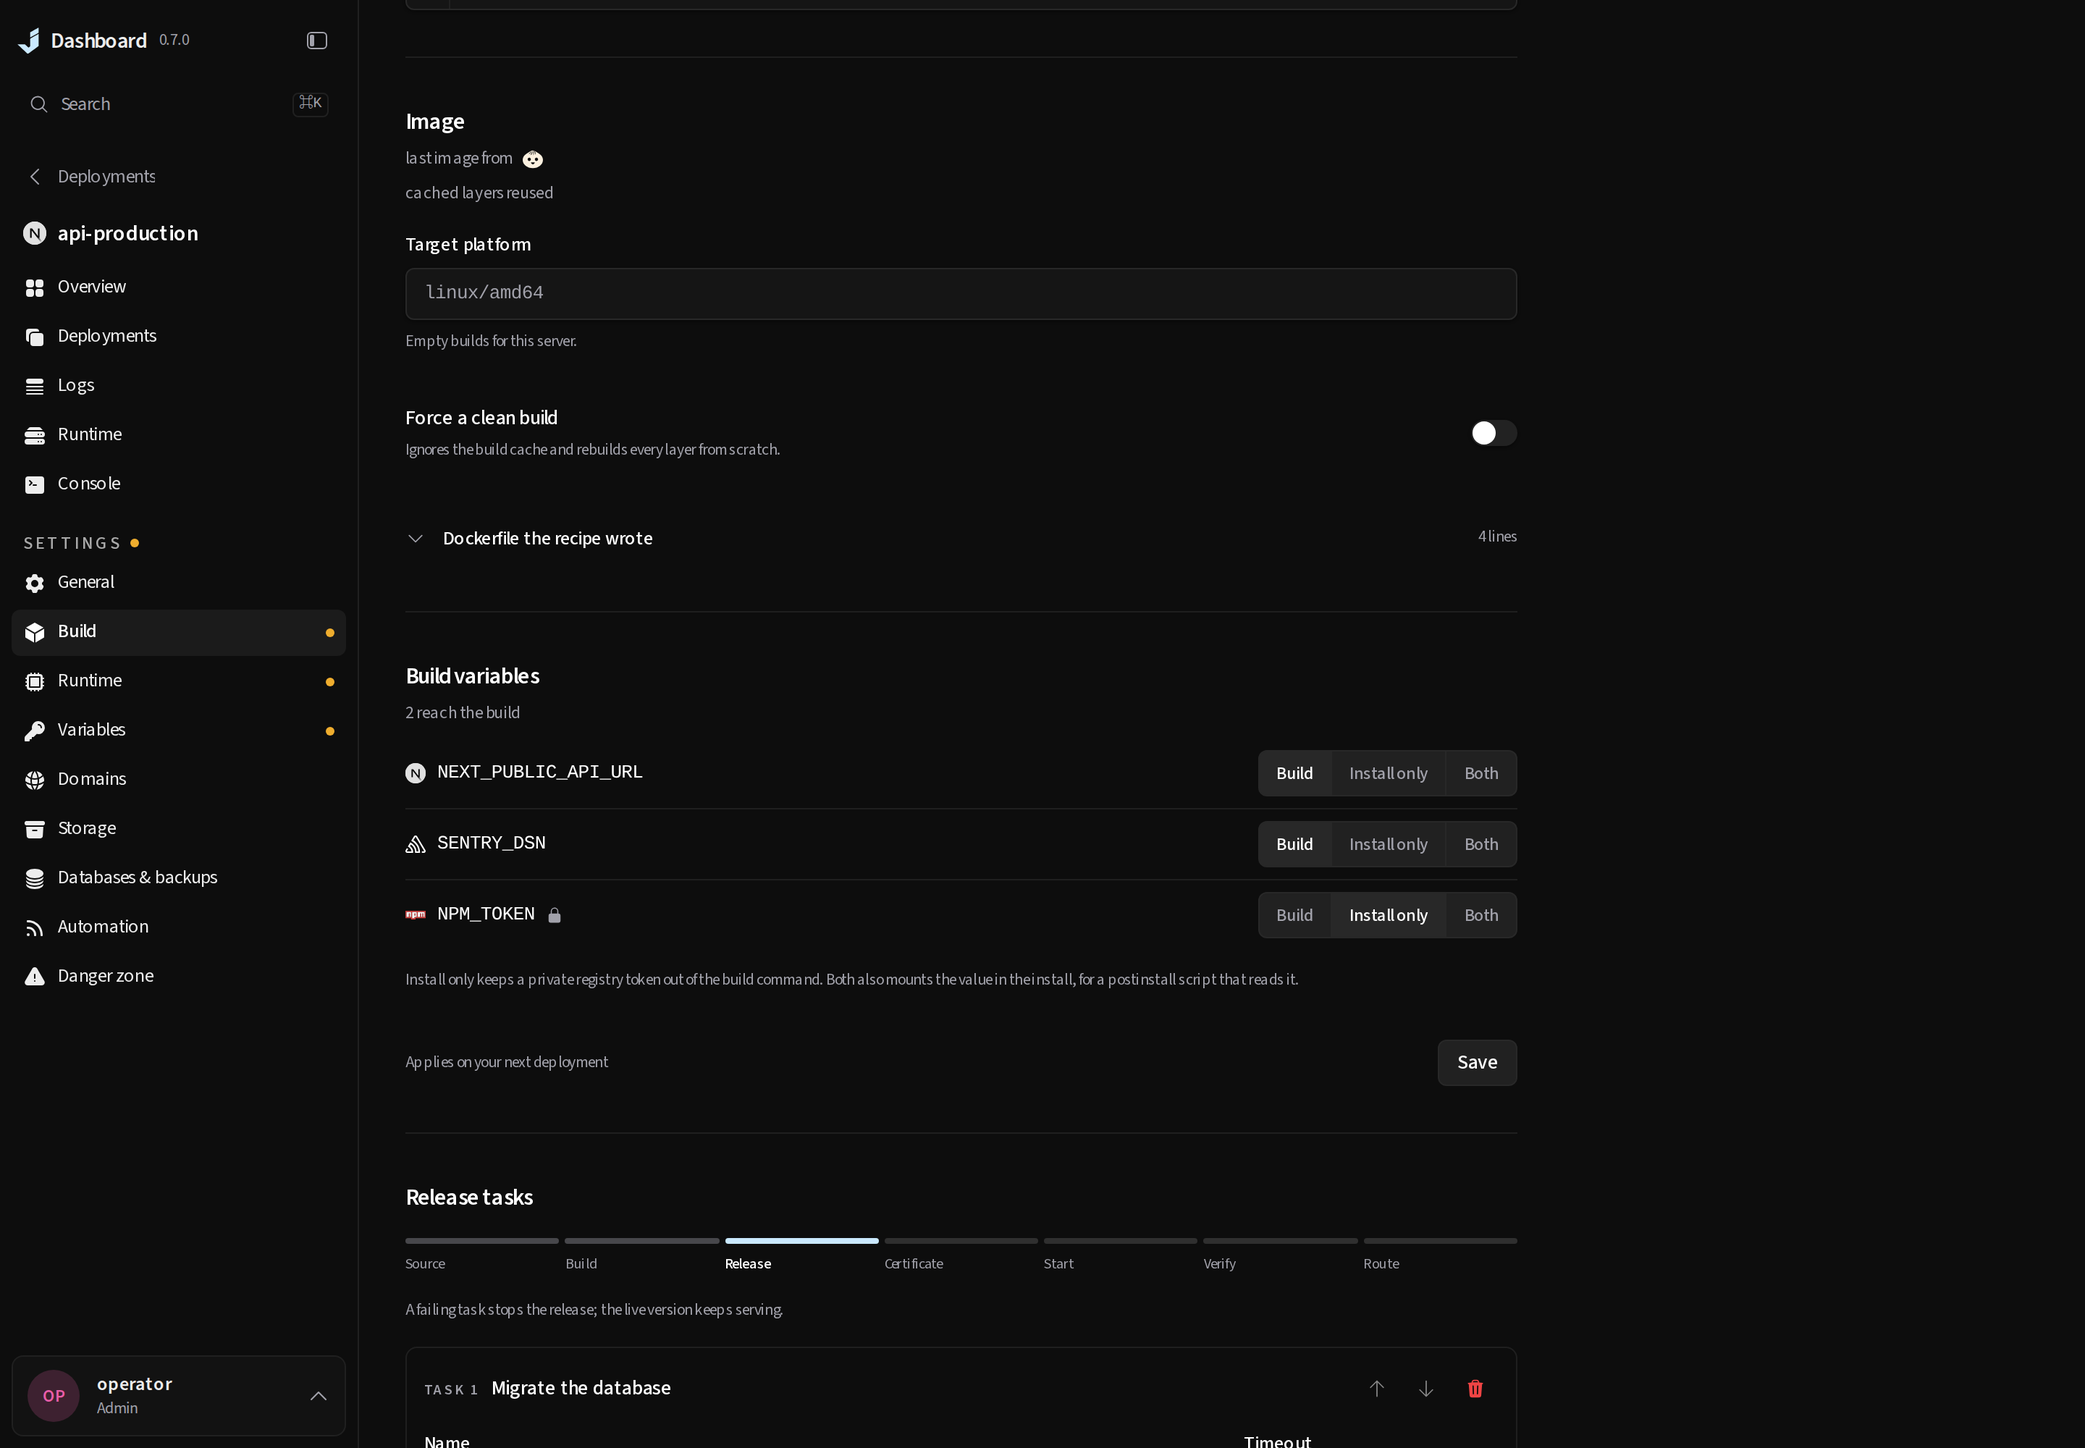
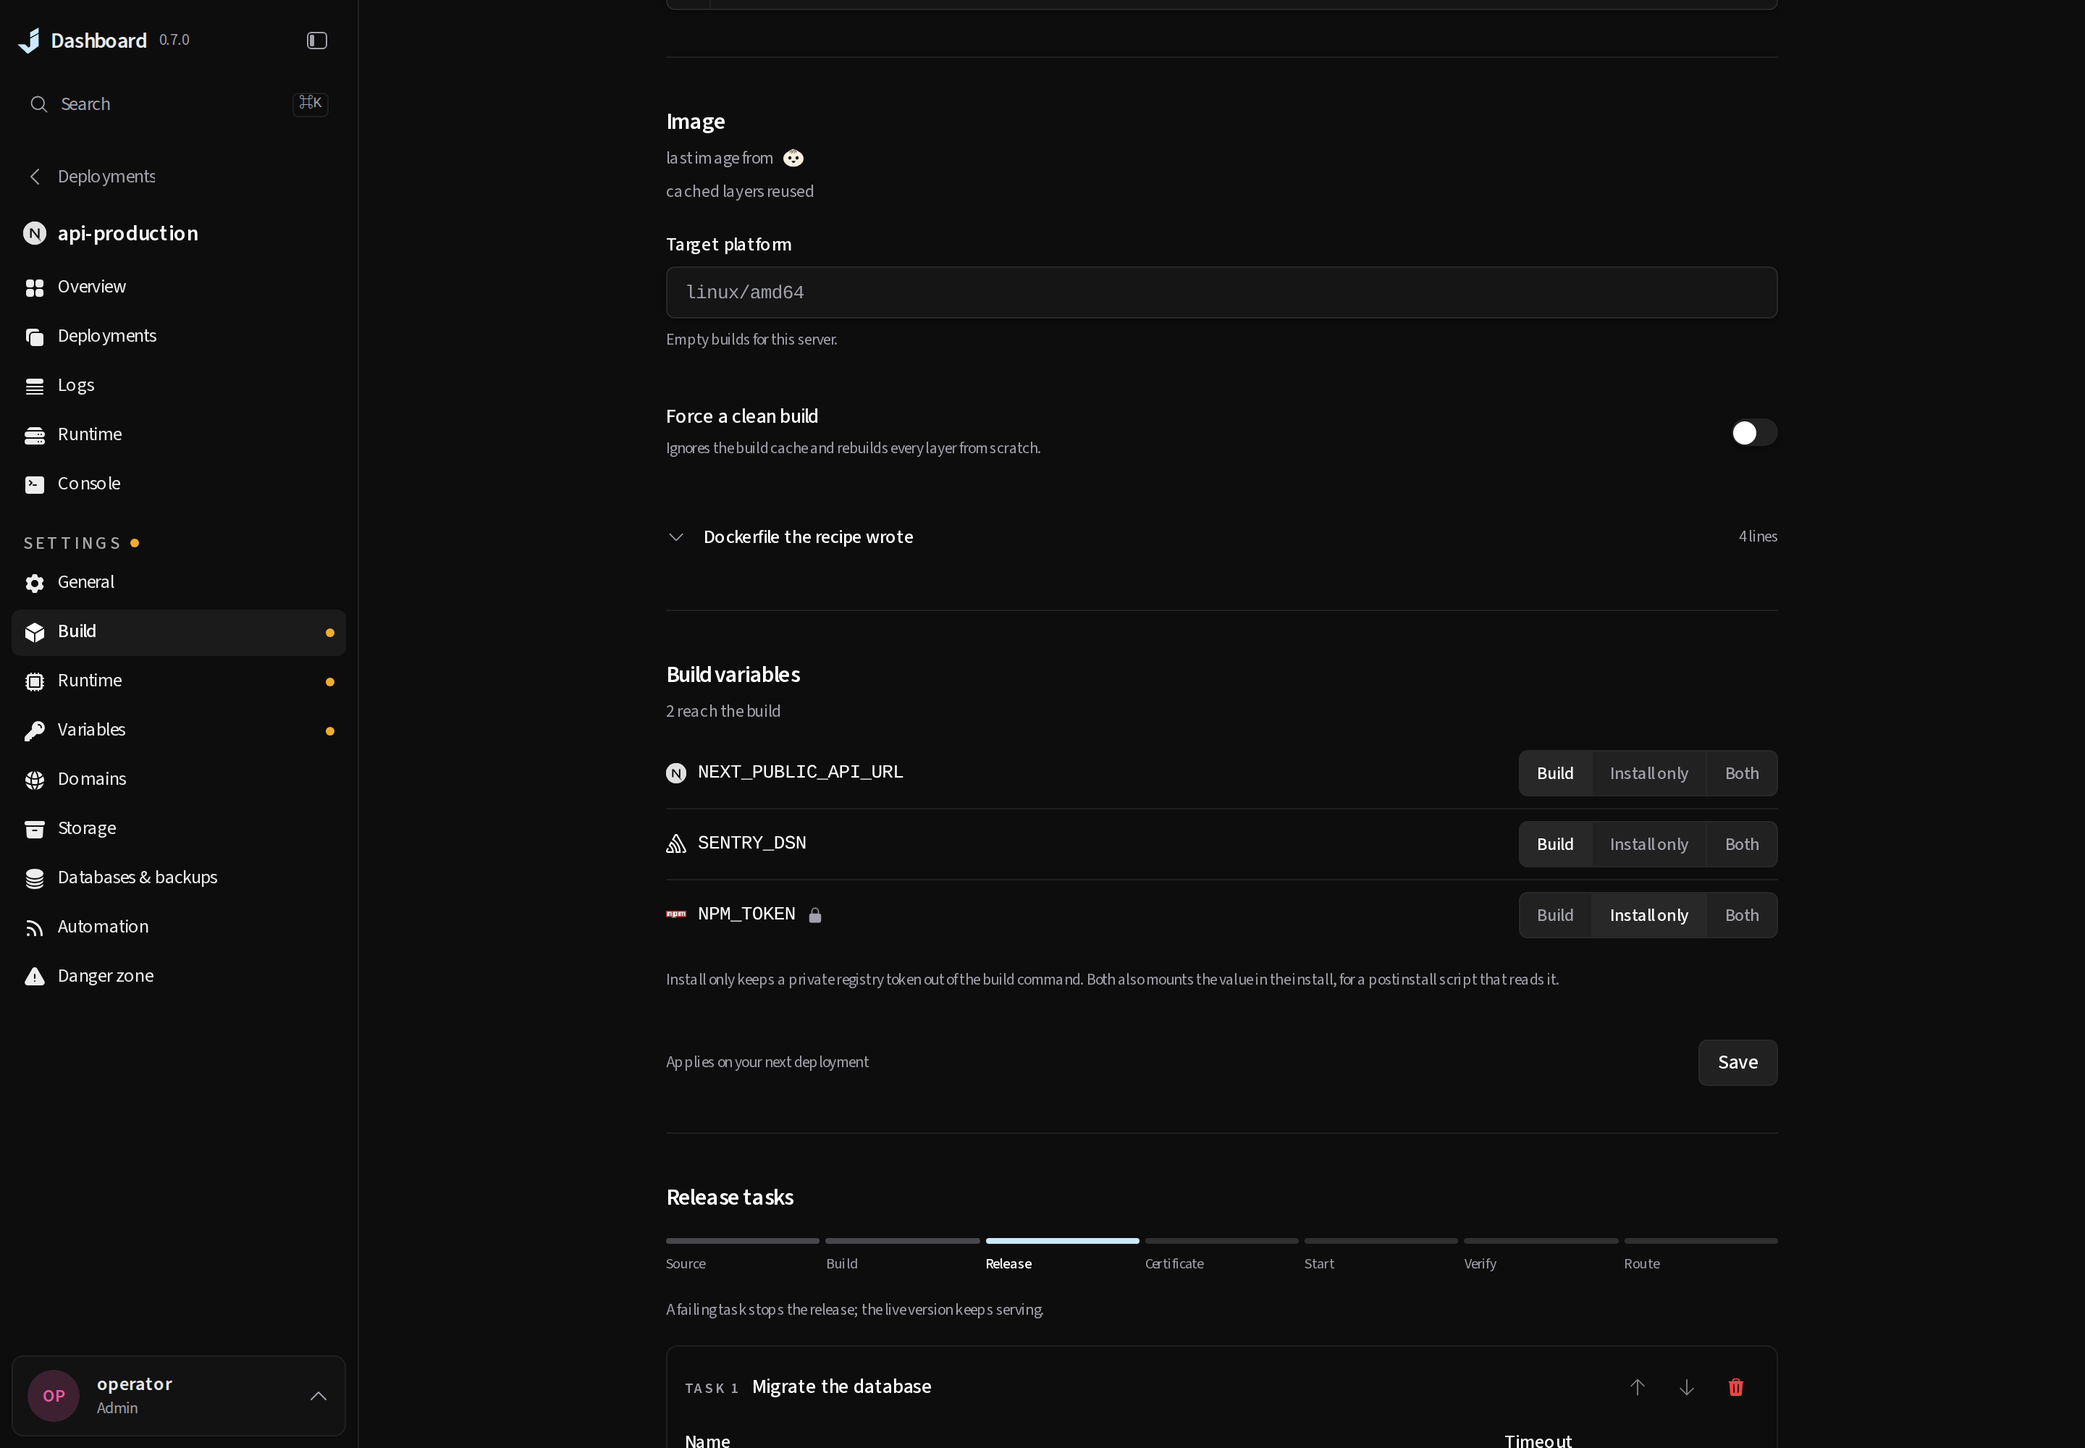
Centre the form column on pages that are only a form
A 48rem column against the left edge of a wide page left the rest of it an empty band. The nine project settings pages, a game server's settings, the account's Security and a database's Settings now centre it, with the project settings' strip and readings centred alongside. A form that is one block among full-width ones keeps their left edge, since centred there its title stood apart from every title above it.

diff --git a/frontend/src/components/deploy/settings/setting-card.tsx b/frontend/src/components/deploy/settings/setting-card.tsx
@@ -38,12 +38,12 @@ import {
 type SettingApplies = "next-deployment" | "immediately"
 
 /**
- * The sections' column, for what sits under a form rather than in one of its
- * sections — and for the game server's foot, which has no `FormSections`
- * around it — so Save sits under the fields it saves rather than a thousand
- * pixels to their right on a wide screen.
+ * The sections' centred column, for the page around them and for what sits
+ * under a form rather than in one of its sections — the game server's foot
+ * included, which has no `FormSections` around it — so Save sits under the
+ * fields it saves rather than a thousand pixels to their right.
  */
-const FIELDS_COLUMN = "max-w-3xl"
+const FIELDS_COLUMN = "mx-auto w-full max-w-3xl"
 
 const APPLIES: Record<SettingApplies, string> = {
   "next-deployment": "Applies on your next deployment",
@@ -52,10 +52,12 @@ const APPLIES: Record<SettingApplies, string> = {
 
 /**
  * A settings page: its configuration read, what is saved but not live, the
- * page's figures when it has any, and its forms in one run of rail sections.
+ * page's figures when it has any, and its forms in one run of sections — all
+ * of it in the one centred column, so the strip and the figures line up with
+ * the fields under them.
  *
  * No heading of its own. The project's other pages add none under the
- * project header, and the first rail head already names what the page is.
+ * project header, and the first section's head already names what the page is.
  * The content rises once when the first read lands and not on every revision
  * after it, because a save is not an arrival.
  */
@@ -75,7 +77,7 @@ export function SettingsPage({
   return (
     <ConfigurationState state={state} readings={Boolean(readings)}>
       {(configuration) => (
-        <div className="min-w-0 animate-rise space-y-8">
+        <div className={cn("min-w-0 animate-rise space-y-8", FIELDS_COLUMN)}>
           <PendingChanges pending={configuration.pending} pageKinds={pageKinds} />
           <LastFailureRemedy />
           {readings?.(configuration)}
@@ -199,7 +201,7 @@ export function SettingSection({
 
 /**
  * Where a section stands against what is saved and what is live, as the one
- * `Status` its rail head carries — or nothing, which is the common case: a
+ * `Status` its head carries — or nothing, which is the common case: a
  * "Live" on every head would be noise.
  *
  * `notLive` is for a section that one kind of pending change maps onto

diff --git a/frontend/src/components/deploy/settings/use-configuration.tsx b/frontend/src/components/deploy/settings/use-configuration.tsx
@@ -61,7 +61,7 @@ export function useConfiguration(projectId: number, environmentId: number) {
 
 /**
  * The three states a settings section passes through before it has a form
- * to show. Rendered by the section, so the rail stays put while it loads.
+ * to show. Rendered by the section, so its head stays put while it loads.
  *
  * `readings` says the page opens on a row of figures, so the skeleton draws
  * one: a placeholder that is not the shape of what replaces it is a jump.
@@ -84,7 +84,7 @@ export function ConfigurationState({
 
 /**
  * A settings page before its configuration lands: the figures, then two
- * sections with their heads in the rail and three fields beside each.
+ * sections, each head over three fields.
  *
  * It was a framed table — a header strip over five rows — which is the one
  * shape no settings page has, so the moment the data arrived the whole
@@ -94,7 +94,7 @@ export function ConfigurationState({
  */
 function SettingsSkeleton({ readings }: { readings?: boolean }) {
   return (
-    <div className="min-w-0 space-y-8">
+    <div className="mx-auto w-full max-w-3xl min-w-0 space-y-8">
       {readings && (
         <StatGrid columns={4} dense>
           {[0, 1, 2, 3].map((cell) => (
@@ -111,7 +111,7 @@ function SettingsSkeleton({ readings }: { readings?: boolean }) {
           ))}
         </StatGrid>
       )}
-      <div className="max-w-3xl divide-y divide-hairline">
+      <div className="divide-y divide-hairline">
         {[0, 1].map((row) => (
           <div key={row} className="min-w-0 space-y-4 py-8 first:pt-0 last:pb-0">
             <div className="space-y-2">
@@ -226,7 +226,7 @@ function isRecord(value: unknown): value is Record<string, unknown> {
  * already claimed to have.
  *
  * `key` names the section (`deploy.7.settings.build`). `changed` answers for
- * a group of fields, so a rail head can say which part of a long form has
+ * a group of fields, so a section's head can say which part of a long form has
  * the edits; `changes` is the count the foot prints; `discard` drops the
  * draft and the form reads the saved value again.
  */

diff --git a/frontend/src/components/deploy/settings/runtime.tsx b/frontend/src/components/deploy/settings/runtime.tsx
@@ -72,7 +72,7 @@ import {
  * cannot run two releases side by side, and blue/green on such a plan used
  * to be offered here and then refused at start.
  *
- * Two forms, two saves: Runtime (five rail sections, one PUT) and Health
+ * Two forms, two saves: Runtime (five sections, one PUT) and Health
  * checks. Each keeps its own draft keyed on its own saved value, so saving
  * one no longer restarts the other.
  */
@@ -162,7 +162,7 @@ const RUNTIME_FIELD_IDS: Record<string, string> = {
   "runtime.devices": "runtime-devices",
 }
 
-/** Which rail head a refused field belongs to, so that head says "Not saved". */
+/** Which section head a refused field belongs to, so that head says "Not saved". */
 const FIELD_SECTION: Record<string, string> = {
   "runtime-image": "runtime",
   "runtime-command": "runtime",
@@ -415,7 +415,7 @@ function RuntimeReadings({
   )
 }
 
-/** One or two states for a rail head, stacked, or nothing when there are none. */
+/** One or two states for a section head, stacked, or nothing when there are none. */
 function statuses(...items: React.ReactNode[]) {
   const shown = items.filter(Boolean)
   if (shown.length === 0) return undefined
@@ -423,7 +423,7 @@ function statuses(...items: React.ReactNode[]) {
 }
 
 /**
- * The Runtime form: five rail heads — the image and command, where it
+ * The Runtime form: five section heads — the image and command, where it
  * listens, what it may use, how releases replace each other, what it can
  * reach — and one save, because one PUT writes all of it.
  */

diff --git a/frontend/src/components/database/ops/settings.tsx b/frontend/src/components/database/ops/settings.tsx
@@ -23,11 +23,10 @@ import { useDatabase } from "@/components/database/shell/database-context"
  * server is reachable from, the server's own parameters and extensions, what
  * else it holds, and the acts that end it.
  *
- * The page is a form, so its sections stand in a rail (§7): the heads down
- * the left, each carrying what the section currently is — the engine and its
- * address, the reach, how many parameters differ from their default — and the
- * fields down the right. It keeps no tiles: every figure it has is one of
- * those heads' lines.
+ * The page is a form, so it is one column of sections (§7), each head over
+ * its fields carrying what the section currently is — the engine and its
+ * address, the reach, how many parameters differ from their default. It keeps
+ * no tiles: every figure it has is one of those heads' lines.
  *
  * A section the engine lacks is not drawn. A file has no server, so no
  * reachability and no neighbours; a key–value server has modules where a SQL
@@ -75,7 +74,7 @@ export function Settings() {
   return (
     <SectionFrame section="settings">
       {sections.length > 2 && <SectionJump sections={sections} />}
-      <FormSections>
+      <FormSections className="mx-auto">
         <ConnectionSection />
         {server && <ReachabilitySection confirm={confirm} />}
         {parameters && <ParametersSection />}

diff --git a/frontend/src/components/form.tsx b/frontend/src/components/form.tsx
@@ -226,7 +226,7 @@ export function FormSection({
         id={id}
         data-slot={slot}
         className={cn(
-          "max-w-3xl min-w-0 scroll-mt-6 space-y-4 py-8 first:pt-0 last:pb-0",
+          "w-full max-w-3xl min-w-0 scroll-mt-6 space-y-4 py-8 first:pt-0 last:pb-0",
           className,
         )}
       >
@@ -266,9 +266,21 @@ export function FormSection({
  * A run of `FormSection aside`s, a hairline between each, held to the fields'
  * width so the hairlines stop where the fields do — a settings page's forms
  * included, which are its children rather than sections.
+ *
+ * Where it sits across the page is the page's call. A page that is only a
+ * form centres it (`mx-auto`), because a 48rem column against the left edge
+ * of a wide page left the rest of it an unexplained empty band. A form that is
+ * one block among full-width ones — Configuration's settings under its stack,
+ * a proxy page's lists — keeps their left edge: centred there, its title
+ * stood 180px in from every title above it.
  */
 export function FormSections({ className, ...props }: React.ComponentProps<"div">) {
-  return <div className={cn("max-w-3xl min-w-0 divide-y divide-hairline", className)} {...props} />
+  return (
+    <div
+      className={cn("w-full max-w-3xl min-w-0 divide-y divide-hairline", className)}
+      {...props}
+    />
+  )
 }
 
 /**

diff --git a/frontend/src/components/deploy/settings/build.tsx b/frontend/src/components/deploy/settings/build.tsx
@@ -105,7 +105,7 @@ import {
  * of their names (§14), and it offers all eight recipes the backend builds —
  * the select it replaced offered three.
  *
- * Two forms, two saves: Build (four rail sections, one PUT) and Release
+ * Two forms, two saves: Build (four sections, one PUT) and Release
  * tasks. Each keeps its own draft, keyed on its own saved value, so saving
  * one never restarts the other's unsaved edits.
  */
@@ -162,7 +162,7 @@ const BUILD_FIELD_IDS: Record<string, string> = {
   "build.targetPlatform": "build-platform",
 }
 
-/** Which rail head a refused field belongs to, so the head says "Not saved" too. */
+/** Which section head a refused field belongs to, so the head says "Not saved" too. */
 const FIELD_SECTION: Record<string, "build" | "commands" | "image"> = {
   "build-method": "build",
   "build-package-manager": "build",
@@ -665,7 +665,7 @@ function BuildReadings({
 
 /**
  * The Build form: which builder, the commands it runs, the image it makes and
- * which variables reach which stage — four rail heads, one save, because one
+ * which variables reach which stage — four section heads, one save, because one
  * PUT writes all of it.
  */
 function BuildForm({

diff --git a/frontend/src/app/(dashboard)/account/security/page.tsx b/frontend/src/app/(dashboard)/account/security/page.tsx
@@ -12,16 +12,17 @@ import { useSessions } from "@/components/account/sessions"
 /**
  * What stands between a session and this server: the second factor first,
  * because "am I protected" is the question the page is opened with, then the
- * password, then where it is signed in. A page that is a form, so its heads
- * sit in a rail with their state under them (§7), the way Configuration's do;
- * it was two panels side by side, each opening on a paragraph.
+ * password, then where it is signed in. A page that is a form, so it is one
+ * centred column of sections, each head over its fields with its state under
+ * it (§7), the way Configuration's are; it was two panels side by side, each
+ * opening on a paragraph.
  */
 export default function AccountSecurityPage() {
   const sessions = useSessions()
   return (
     <Page className="animate-rise">
       <PageContext eyebrow="Account" title="Security" />
-      <FormSections>
+      <FormSections className="mx-auto">
         <TwoFactorSection />
         <PasswordSection />
         <SessionsSection sessions={sessions} />

diff --git a/frontend/src/components/deploy/game/settings.tsx b/frontend/src/components/deploy/game/settings.tsx
@@ -45,7 +45,7 @@ import { GameIdentity, useGameOverview } from "@/components/deploy/game/identity
 
 /**
  * The server's own settings file, as a page that is a form (§7): the file's
- * name and what this page does to it in a rail beside the fields, and the
+ * name and what this page does to it under the head, over the fields, and the
  * file itself, as it sits on disk, in a second section folded away.
  *
  * Only the keys the blueprint declares get a control — a line of text full
@@ -159,6 +159,7 @@ export function GameSettings({ projectId }: { projectId: number }) {
       ) : (
         <form
           aria-label="Server settings"
+          className="mx-auto w-full max-w-3xl"
           onSubmit={(event) => {
             event.preventDefault()
             void save()

diff --git a/frontend/src/components/deploy/settings/use-column-width.ts b/frontend/src/components/deploy/settings/use-column-width.ts
@@ -7,8 +7,8 @@ import { useLayoutEffect, useRef, useState } from "react"
  * readings beside its name when there is room and under it when there is not.
  *
  * The window is the wrong thing to ask. A settings page's fields column is
- * what is left of the window once the navigation and, from `xl`, the rail
- * have taken theirs, so at 768 a list that "is on a tablet" is 450 pixels wide
+ * what is left of the window once the navigation has taken its share, and
+ * never more than 48rem, so at 768 a list that "is on a tablet" is 450 pixels wide
  * and a row that laid its readings out for the window lost its name to them.
  * The choice is still made once and drawn once (§12): a reading that exists
  * in a hidden copy is two answers to every query a test or a screen reader

diff --git a/frontend/src/app/(dashboard)/dashboard/configuration/page.tsx b/frontend/src/app/(dashboard)/dashboard/configuration/page.tsx
@@ -345,8 +345,8 @@ export default function DashboardConfigurationPage() {
               aside
               title="Address"
               hint={
-                // The host is the field beside it, so it may truncate here;
-                // what the rail adds is that it answers, and on which port.
+                // The host is the field under it, so it may truncate here;
+                // what the head adds is that it answers, and on which port.
                 <span className="block space-y-1">
                   <a
                     href={report.endpoint}

diff --git a/frontend/src/components/deploy/settings/automation.tsx b/frontend/src/components/deploy/settings/automation.tsx
@@ -51,7 +51,7 @@ import {
  * It opens on four readings — the last run nothing pressed a button for, the
  * next one a clock will start, the revisions waiting for a look, and the
  * alerts firing — then draws the senders as a picture, then lays the four
- * blocks out as the other settings pages do: heads in a rail, each carrying
+ * blocks out as the other settings pages do: each head over its block, carrying
  * what its block currently is as data, the webhooks, schedules and previews
  * as cards that open their own sheets, and the alert rules as sentences.
  *

diff --git a/frontend/src/components/account/security-panels.tsx b/frontend/src/components/account/security-panels.tsx
@@ -176,7 +176,7 @@ function Verdict({
  * The three states are: not enrolled, enrolled, and enrolled on an install
  * that requires it — where the off switch is absent rather than disabled,
  * since a control that cannot be used is a question the operator has to answer
- * for themselves. The state is the section's rail head, and its verdict opens
+ * for themselves. The state is under the section's head, and its verdict opens
  * the section in the colour of what it means.
  */
 export function TwoFactorSection() {
